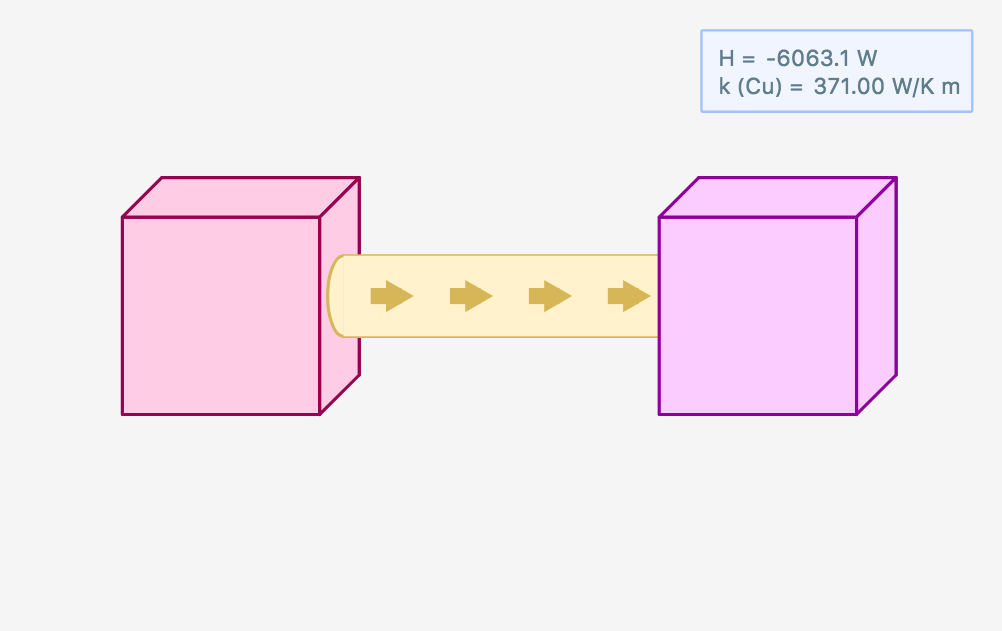
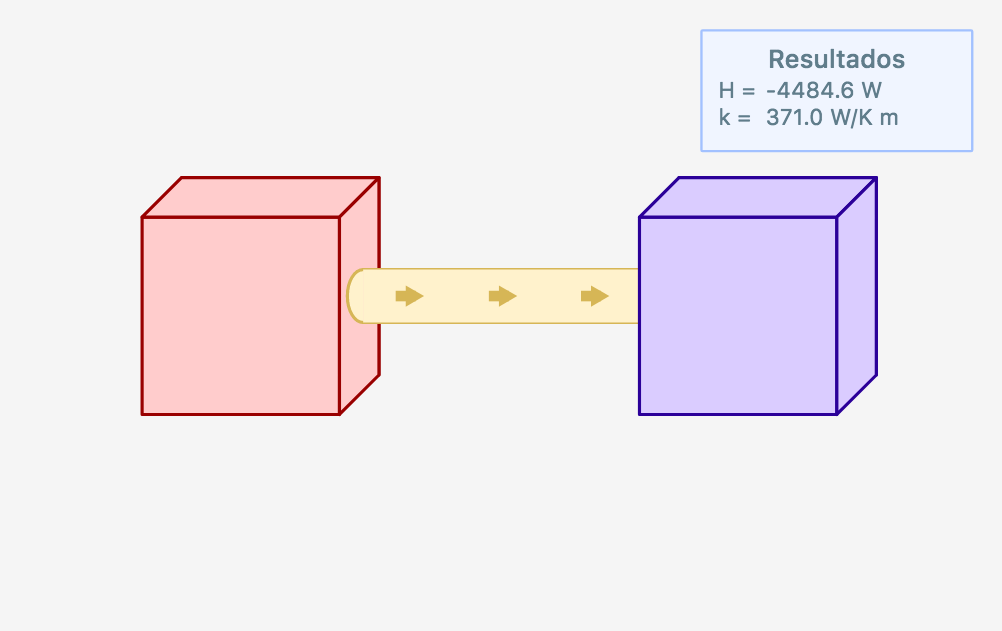
Diferentes constantes de conductividad y rango de Temperaturas

Changed region(s): [[0.0928, 0.271, 0.8972, 0.6624], [0.6806, 0.0602, 0.99, 0.2409]]

diff --git a/fisica/transferencia_calor/main.js b/fisica/transferencia_calor/main.js
@@ -97,10 +97,6 @@ var BOX_L = 2.5;
 var BOX_HL = BOX_L / 2;
 var Y_OFFSET = 0.5;
 var X_OFFSET = 0.5;
-var k_cu = 371; // conductividad termica [W/K m]
-var m = 1; // [kg]
-var c_cu = 385; //calor especifico Cu [J/kg K]
-
 
 var started = false;
 var t_end = 3;
@@ -113,24 +109,23 @@ var t_diff = 0;
 
 // Variables
 var points = [];  // 2d arrays for the arrows
-
+var constant_type = "Cu";     // Sets the current type of conductivity constant.
 
 // p$ Objects
 var sim = new p$.Shape(drawSimulation);
 var arrow = new p$.Shape(drawBaseArrow);
 var arrows_1 = new p$.Shape(drawArrows_1);
-var position = new p$.Box( {debug: false, isDraggable: false, color: p$.BOX_COLORS.BLUE } );
+var position = new p$.Box( {debug: false, title: "Resultados", isDraggable: false, color: p$.BOX_COLORS.BLUE } );
 var w;
 
 var controls = {};
 var labels = {};
 
 // Configure position box.
-labels.Heat = position.addLabel(150, 30, { name: "H =  ", units: "W", decPlaces: 1, fixPlaces: true, labelWidth: 30 });
-labels.Heat.setPosition(0, -8);
-labels.k_var = position.addLabel(150, 30, { name: "k (Cu) =  ", units: "W/K m", decPlaces: 2, fixPlaces: true, labelWidth: 60 });
-labels.k_var.setPosition(0, 10);
-//position.calculateDimensions();
+labels.Heat = position.addLabel(150, 55, { name: "H =  ", units: "W", decPlaces: 1, fixPlaces: true, labelWidth: 30 });
+labels.Heat.setPosition(0, 0);
+labels.k_var = position.addLabel(150, 55, { name: "k =  ", units: "W/K m", decPlaces: 1, fixPlaces: true, labelWidth: 30 });
+labels.k_var.setPosition(0, 17);
 
 /**
  * Function runs when document is completely loaded.
@@ -140,7 +135,6 @@ $(function() {
   setupControls();
   reset();
   w.start();
-  //console.log(2);
 });
 
 /**
@@ -169,18 +163,13 @@ function setupControls() {
   // Configure sliders.
   controls.Bar_width = new p$.Slider({ id: "Bar_width", start: 2, min: 0.5, max: 6, decPlaces: 1, units: "m", callback: reset });
   controls.Bar_height = new p$.Slider({ id: "Bar_height", start: 0.5, min: 0.1, max: 2, decPlaces: 2, units: "m", callback: reset });
-  controls.T_1 = new p$.Slider({ id: "T_1", start: 30, min: -40, max: 100, decPlaces: 1, units: "C", callback: reset });
+  controls.T_1 = new p$.Slider({ id: "T_1", start: 70, min: -40, max: 100, decPlaces: 1, units: "C", callback: reset });
   controls.T_2 = new p$.Slider({ id: "T_2", start: 20, min: -20, max: 90, decPlaces: 1, units: "C", callback: reset });
-  
-  
-  // Options options.
-  controls.op = new p$.dom.Options("options", function(o) {
-    console.log(o);
-  });
 
-  // Option option.
-  controls.op2 = new p$.dom.Option("opcion", function(c) {
-    console.log(c);
+  // Select k type options.
+  controls.constant_type = new p$.dom.Options("constant_type", function(o) {
+    constant_type = o;
+    reset();
   });
 
   // Start button.
@@ -214,9 +203,20 @@ function reset() {
   t2_initial = controls.T_2.value;
   t2 = t2_initial;
   
-  //H un solo conductor
-  H_1 = k_cu * (Math.PI * Bh_half *Bh_half) * (t2-t1) /  Bar_width 
-  console.log(H_1);
+  switch(constant_type) {   
+    case "Cu": 
+      k_conductivity = 371;  // thermal conductivity [W/K m]
+      H_1 = k_conductivity * (Math.PI * Bh_half *Bh_half) * (t2-t1) /  Bar_width
+      break;
+    case "Al":
+      k_conductivity = 237; // thermal conductivity [W/K m]
+      H_1 = k_conductivity * (Math.PI * Bh_half *Bh_half) * (t2-t1) /  Bar_width
+      break;
+    case "Pb":
+      k_conductivity = 35; // thermal conductivity [W/K m]
+      H_1 = k_conductivity * (Math.PI * Bh_half *Bh_half) * (t2-t1) /  Bar_width
+      break;
+  }
 
 }
 
@@ -227,7 +227,7 @@ function drawSimulation() {
   
 
   function tempColor(Temp){
-    var normalised_T = Temp/150.
+    var normalised_T = Temp/60.
     if (normalised_T >1) {
       normalised_T = 1;
     } else if (normalised_T < 0){
@@ -356,7 +356,7 @@ function draw() {
   }
   // Set position labels
   labels.Heat.set(H_1); 
-  labels.k_var.set(k_cu);
+  labels.k_var.set(k_conductivity);
 }
 
 /**

diff --git a/fisica/transferencia_calor/index.php b/fisica/transferencia_calor/index.php
@@ -62,6 +62,22 @@
                             <div class="col">
                                 <table class="table slider-table">
                                     <tr>
+                                        <td nowrap>Material</td>
+                                        <td colspan=2>
+                                            <div class="btn-group btn-block btn-group-toggle" data-toggle="buttons">
+                                                <label class="btn btn-sm w-100 btn-outline-primary active">
+                                                    <input type="radio" name="constant_type" value="Cu" autocomplete="off" checked> Cobre
+                                                </label>
+                                                <label class="btn btn-sm w-100 btn-outline-primary">
+                                                    <input type="radio" name="constant_type" value="Al" autocomplete="off"> Aluminio
+                                                </label>
+                                                <label class="btn btn-sm w-100 btn-outline-primary">
+                                                    <input type="radio" name="constant_type" value="Pb" autocomplete="off"> Plomo
+                                                </label>
+                                            </div>
+                                        </td>
+                                    </tr>
+                                    <tr>
                                         <td nowrap>Ancho</td>
                                         <td class="w-100"><div id="Bar_width_slider"></div></td>
                                         <td><input id="Bar_width_label" type="text" class="input-80 form-control form-control-sm text-center" readonly></td>
